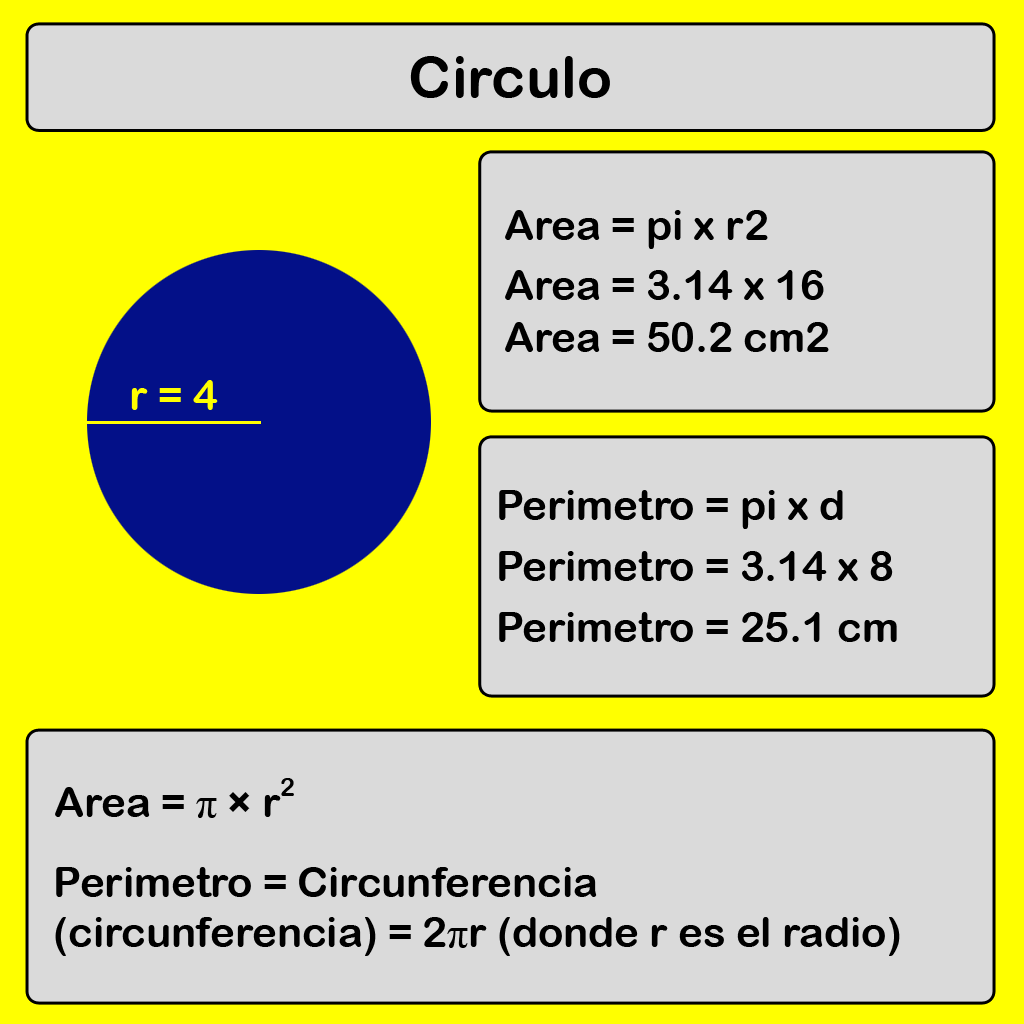
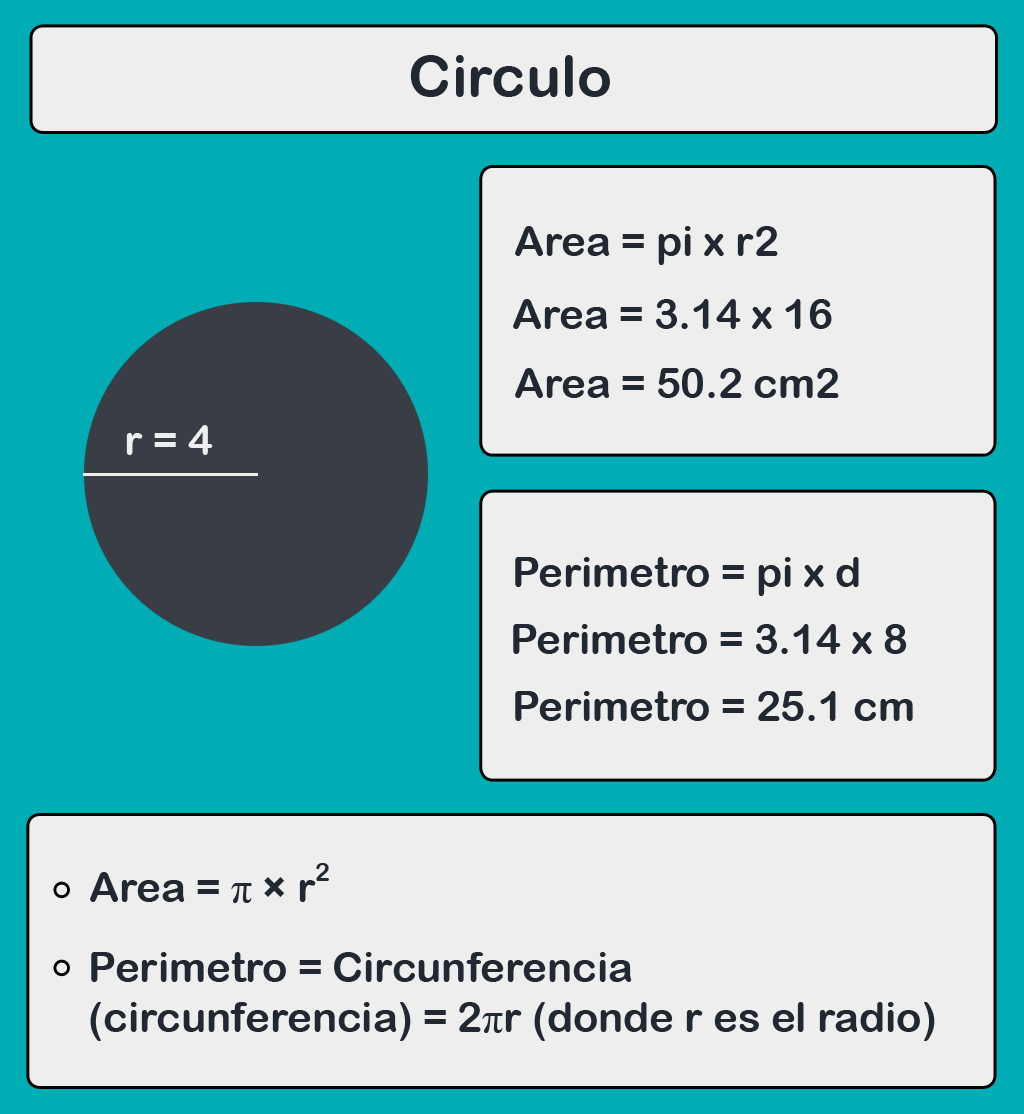
Cambio de colores

diff --git a/styles/formulasBasicas.css b/styles/formulasBasicas.css
@@ -1,7 +1,14 @@
+:root {
+    --primario: #222831;
+    --secundario: #393E46;
+    --terciario: #00ADB5;
+    --extra: #EEEEEE;
+}
 body {
     margin: 0px;
     padding: 0px;
     box-sizing: border-box;
+    background-color: var(--extra);
 }
 
 /* ################# nav ################# */
@@ -15,8 +22,8 @@ body {
     justify-content:space-between;
     width: 100%;
     height: 60px;
-    background-color: rgb(255, 255, 0);
-    border-bottom: 1px solid rgb(0, 38, 255);
+    background-color: var(--terciario);
+    border-bottom: 1px solid var(--secundario);
     margin-bottom: 20px;
 }
 .nav h1 {
@@ -25,26 +32,26 @@ body {
 .btnMenu {
     display: flex;
     gap: 5px;
-    padding-right: 20px;
+    padding-right: 10px;
     cursor: pointer;
 }
 .btnMenu p{
     font-size: 18px;
     font-weight: 700;
-    border: 1px solid rgb(255, 255, 0);
+    border: 1px solid var(--terciario);
     border-radius: 8px;
     padding: 5px;
 }
 .btnMenu p:hover{
-    border: 1px solid rgb(0, 38, 255);
-    color: rgb(0, 38, 255);
+    border: 1px solid var(--extra);
+    color: var(--extra);
 }
 .homeLink {
     text-decoration: none;
     color: black;
 }
 .homeLink:hover {
-    color: rgb(0, 38, 255);
+    color: var(--extra);
 }
 
 /* ############  contentIndex  ############ */
@@ -56,9 +63,10 @@ body {
     font-size: 24px;
     font-weight: 700;
     text-align: center;
+    background-color: var(--secundario);
 }
 .titlesIndex p {
-    background-color: rgb(224, 224, 224);
+    color: var(--extra);
     padding: 10px;
     margin: 0px;
 }
@@ -66,10 +74,10 @@ body {
 /* ------ listIndex ------ */
 
 .listIndex {
-    background-color: rgb(177, 177, 177);
+    background-color: var(--terciario);
     position: absolute;
     top: 61px;
-    right: -166px;
+    right: -170px;
     margin: 0px;
     padding: 0px;
     padding: 20px;
@@ -88,13 +96,14 @@ body {
     display: block;
     text-decoration: none;
     font-size: 20px;
-    color: rgb(255, 254, 254);
+    font-weight: 600;
+    color: var(--primario);
     padding-bottom: 10px;
-    border-bottom: 1px solid grey;
+    border-bottom: 1px solid var(--secundario);
 }
 .listIndex li a:hover {
-    color: rgb(0, 38, 255);
-    border-bottom: 1px solid rgb(0, 38, 255);
+    color: var(--extra);
+    border-bottom: 1px solid var(--extra);
 }
 /* ############# containerFig #############  */
 .containerFig {
@@ -127,7 +136,7 @@ body {
     gap: 10px;
 }
 .containerFormules {
-    background-color: rgb(218, 218, 218);
+    background-color: var(--secundario);
     width: 300px;
     border-radius: 10px;
     padding: 20px;
@@ -137,13 +146,14 @@ body {
     font-size: 18px;
     font-weight: 700;
     margin-top: 0px;
+    color: var(--extra);
 }
 .textFormule {
-    color: rgb(0, 38, 255);
+    color: var(--terciario);
     font-weight: 700;
 }
 .winStyle {
-    background-color: aliceblue;
+    background-color: var(--extra);
     border: 1px solid black;
     border-radius: 10px;
     display: flex;
@@ -151,20 +161,24 @@ body {
     align-items: center;
     width: 298px;
     height: 50px;
-    color: rgb(0, 38, 255);
+    color: var(--primario);
     font-weight: 700;
     font-size: 20px;
 }
 
 .btnResult {
     width: 100%;
-    height: 35px;
+    height: 40px;
     border-radius: 10px;
-    border: 1px solid rgb(160, 160, 160);
+    border: 1px solid var(--terciario);
+    background-color: var(--secundario);
+    color: var(--terciario);
+    font-size: 18px;
 }
 .btnResult:hover {
-    border: 1px solid rgb(0, 38, 255);
-    color: rgb(0, 38, 255);
+    background-color: var(--terciario);
+    border: 1px solid var(--terciario);
+    color: var(--extra);
 }
 .winPosition {
     width: 100%;
@@ -172,7 +186,11 @@ body {
     justify-content: space-between;
     align-items: center;
 }
+.winPosition label {
+    color: var(--extra);
+}
 .inputStyle {
+    background-color: var(--extra);
     text-align: center;
     width: 60px;
     height: 25px;
